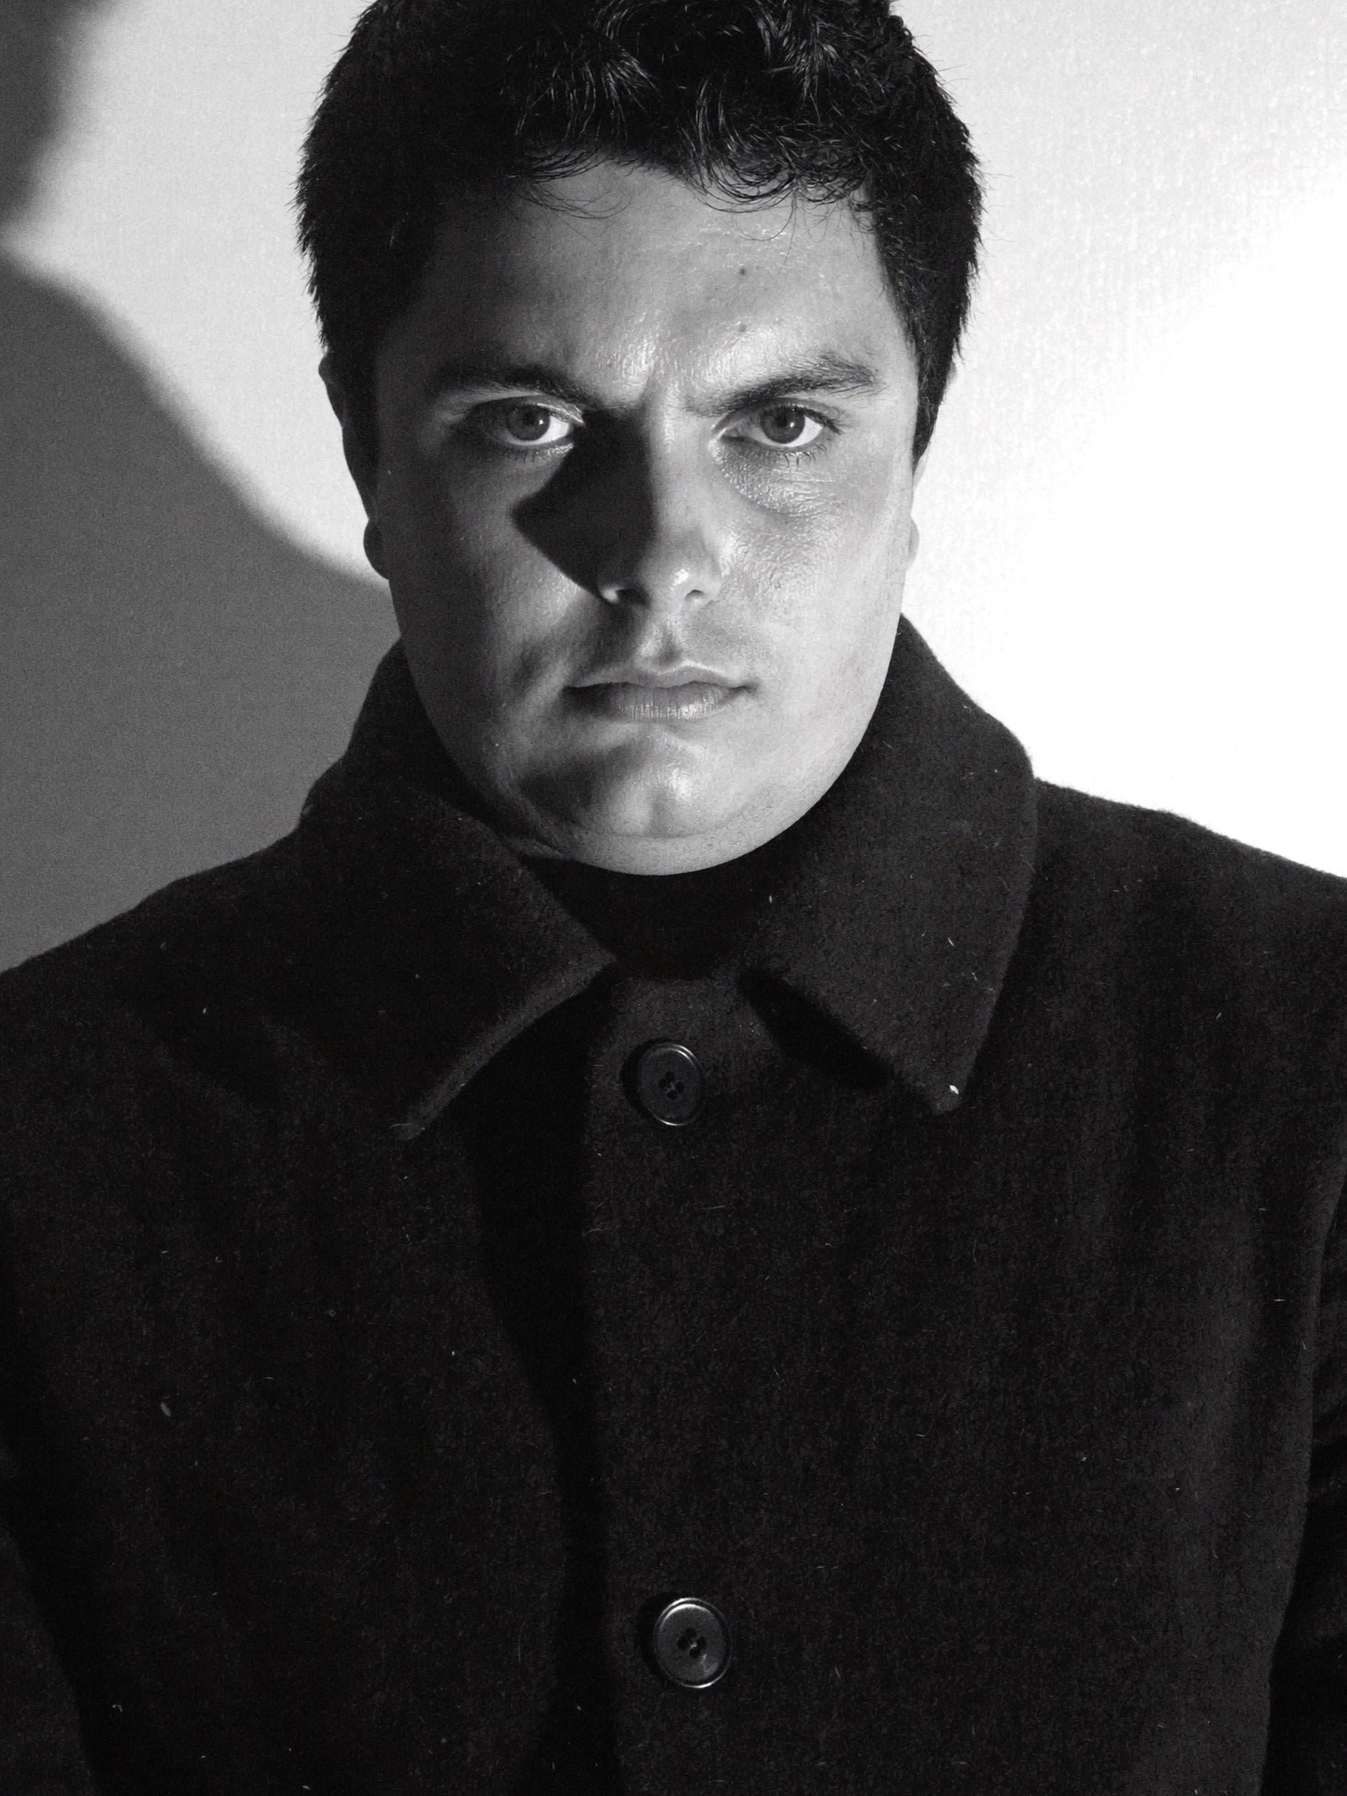
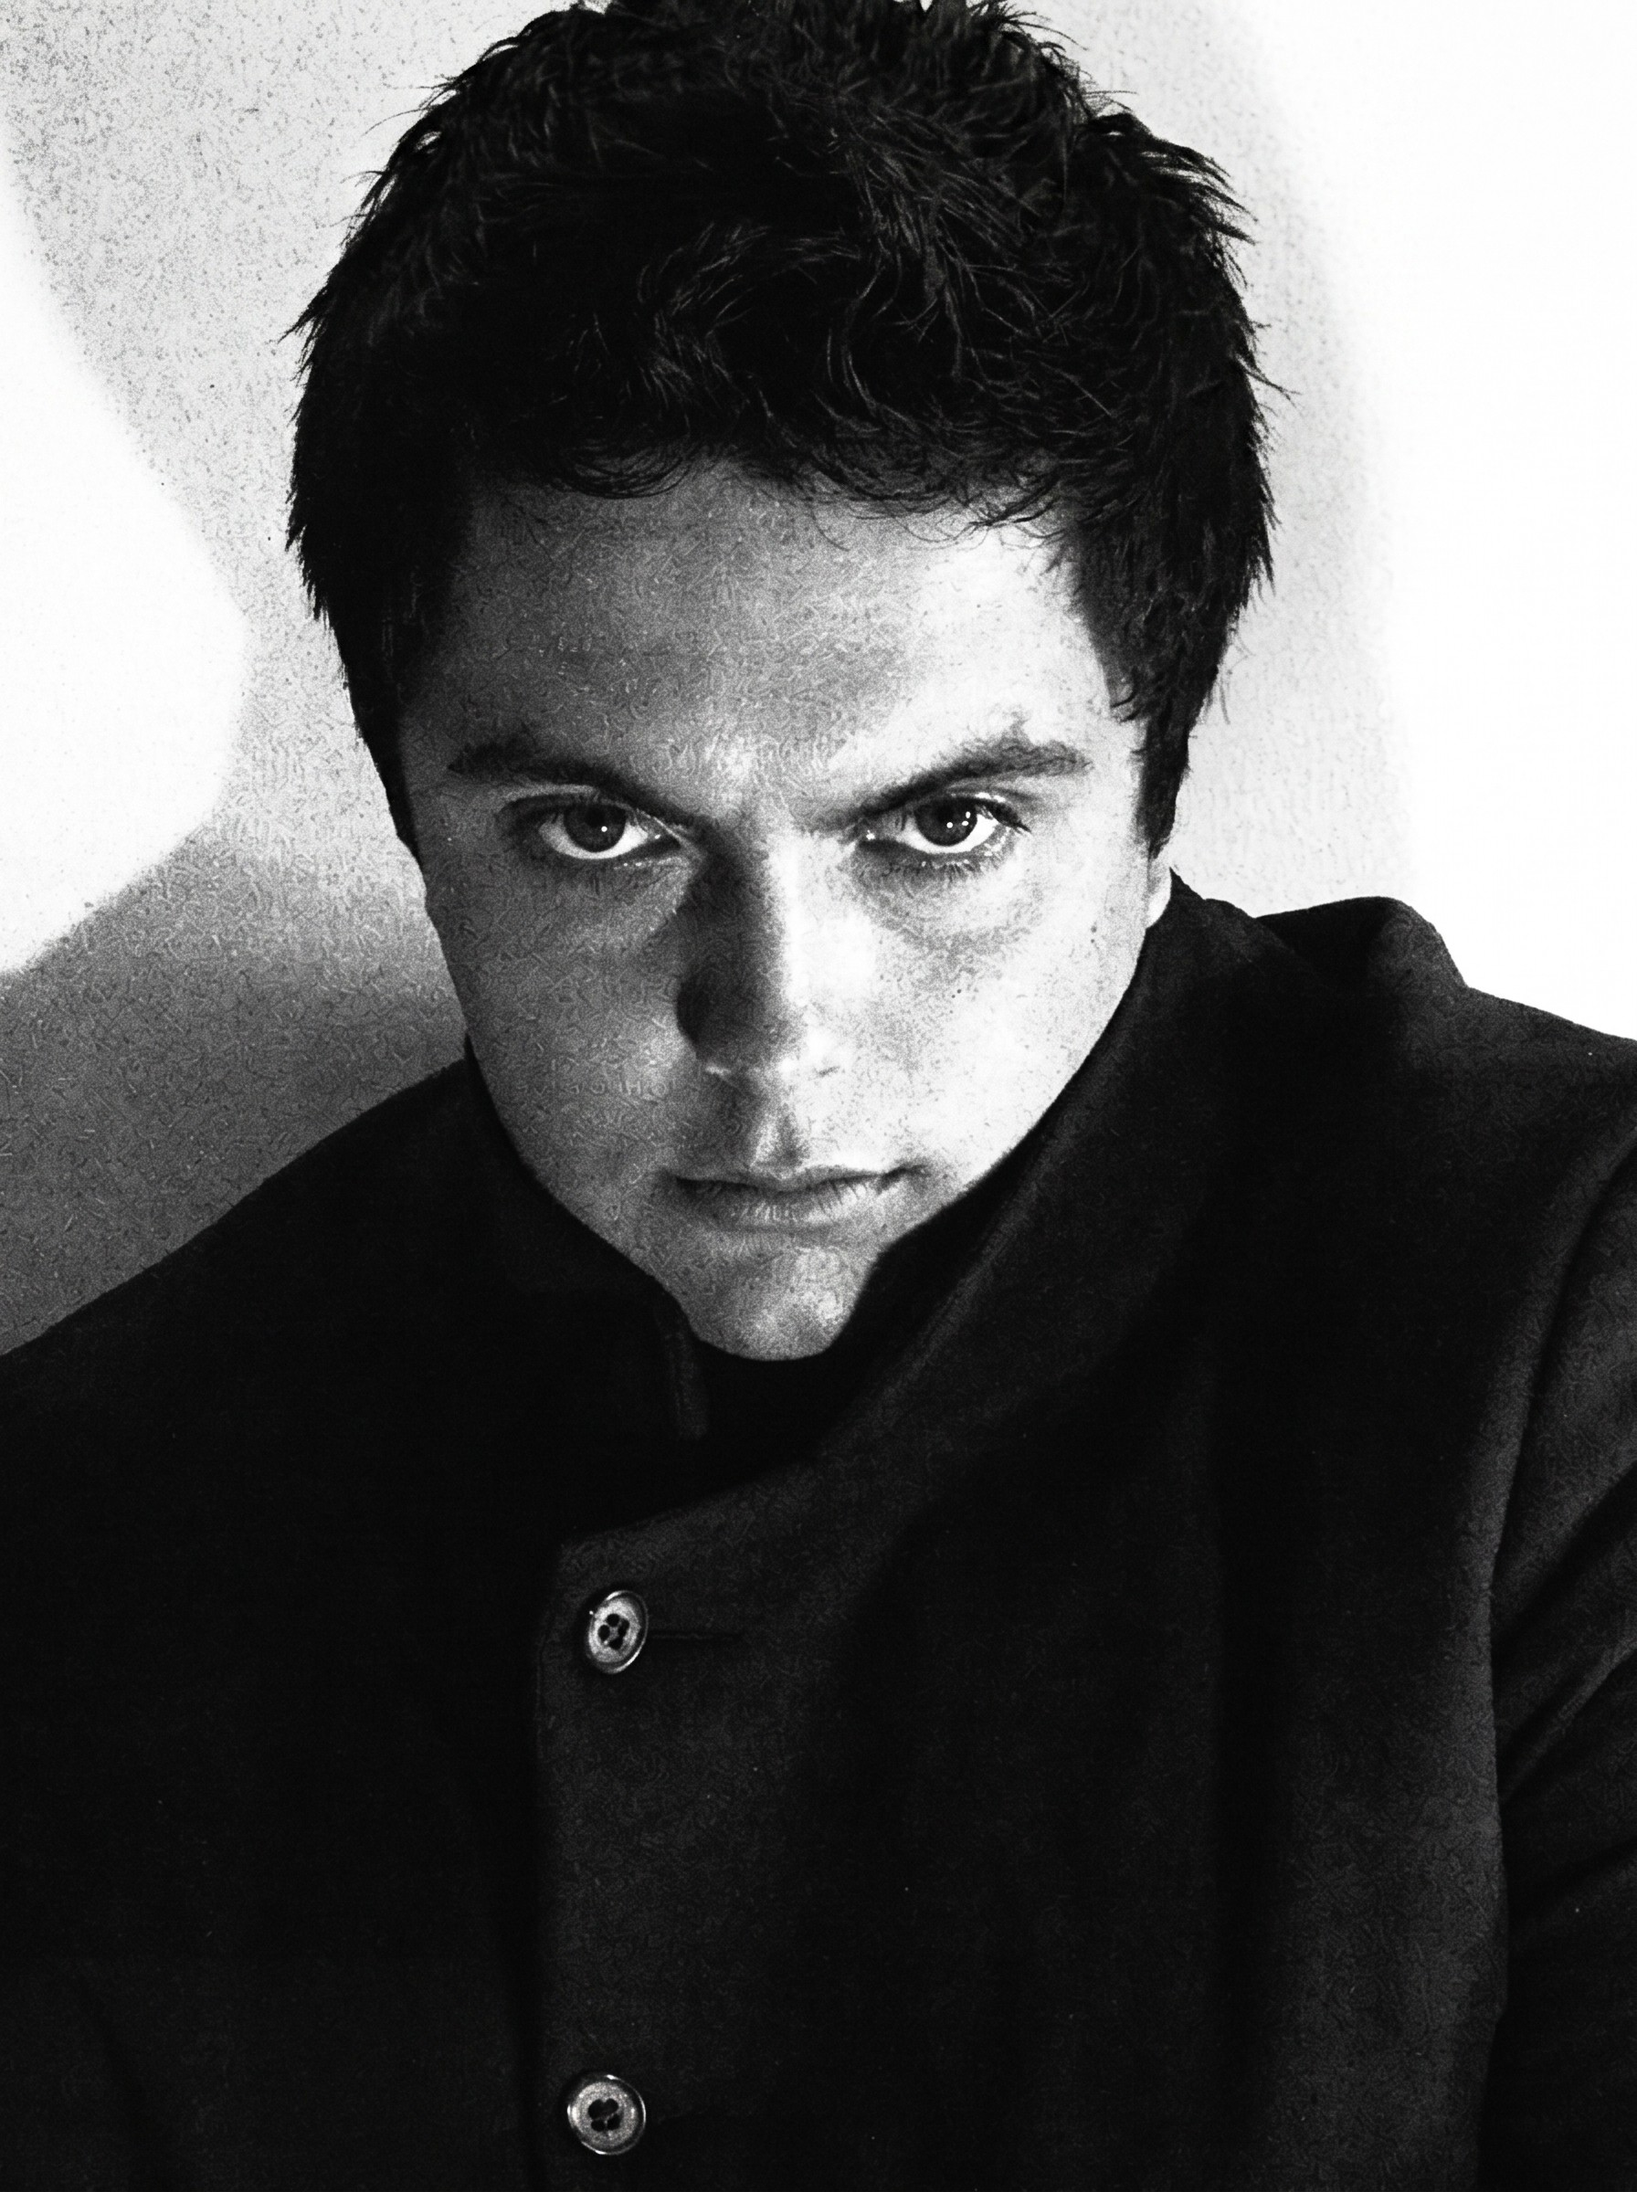
Regenerate KSM Soul gallery as 26yo man across ratios
Rebuild brand heroes and work archive with soul_2 (KSM soul_id),
keeping male subject consistency across 3:4, 1:1, 16:9, and 9:16.

diff --git a/data/gallery.ts b/data/gallery.ts
@@ -1,14 +1,16 @@
 /**
- * KSM Soul work gallery — generations from moodboard refs.
- * Browse at `/gallery`.
+ * KSM Soul work gallery — regenerated with soul_2 (KSM).
+ * Subject: 26-year-old man. Browse at `/gallery`.
  */
+
+export type GalleryAspect = "3/4" | "1/1" | "16/9" | "9/16";
 
 export type GalleryItem = {
   id: string;
   title: string;
   mood: string;
   src: string;
-  aspect: "3/4" | "1/1";
+  aspect: GalleryAspect;
   jobId: string;
 };
 
@@ -16,58 +18,42 @@ export const galleryItems: GalleryItem[] = [
   {
     id: "bw-profile",
     title: "B&W Cover Portrait",
-    mood: "High-contrast monochrome hero look — grain, collar, hard side light, no text",
+    mood: "High-contrast monochrome hero — grain, collar, hard side light, no text",
     src: "/images/gallery/bw-profile.jpg",
     aspect: "3/4",
-    jobId: "eced077d-099f-4566-abb8-9cb0cc710643",
+    jobId: "c70ec123-f000-460a-b421-2c2b7c772eb5",
   },
   {
-    id: "bw-hero-clean",
-    title: "B&W Studio Stare",
-    mood: "Same cover energy, cropped clean of masthead",
-    src: "/images/gallery/bw-hero-clean.jpg",
+    id: "bw-cover-cropped",
+    title: "B&W Cover Crop",
+    mood: "Same cover stare, masthead cropped out for clean brand use",
+    src: "/images/gallery/bw-cover-cropped.jpg",
     aspect: "3/4",
-    jobId: "30062074-880f-49cb-b4c3-4adfb30aa3e1",
+    jobId: "b76e02b0-869b-4ba1-aa91-5666745053ea",
   },
   {
     id: "bw-concrete",
-    title: "B&W Concrete Wall",
-    mood: "Editorial close-up against rough wall, chiaroscuro",
+    title: "B&W Concrete Low Angle",
+    mood: "Chin up against rough wall — chiaroscuro, film grain",
     src: "/images/gallery/bw-concrete.jpg",
     aspect: "3/4",
-    jobId: "43a840de-72ce-41c2-ad6e-61cddac8b098",
+    jobId: "cc6bb95c-c1c3-4a6d-9c2b-06f2bc0ed87e",
   },
   {
-    id: "bw-lowangle",
-    title: "B&W Low Angle",
-    mood: "Chin up, hard right light, film grain",
-    src: "/images/gallery/bw-lowangle.jpg",
+    id: "turtleneck-studio",
+    title: "Turtleneck Studio",
+    mood: "Soft window light + hard shadow, black turtleneck mid-shot",
+    src: "/images/gallery/turtleneck-studio.jpg",
     aspect: "3/4",
-    jobId: "9383801a-15ec-4e12-8f82-42db3a50779b",
+    jobId: "2369c5b8-3930-40d2-9d59-15b86c764eb7",
   },
   {
-    id: "bw-eyes",
-    title: "B&W Eyes Crop",
-    mood: "Tight face fill, underground zine stare",
-    src: "/images/gallery/bw-eyes.jpg",
-    aspect: "1/1",
-    jobId: "d4ba038d-c8d0-41bc-a7db-db1d27192ea7",
-  },
-  {
-    id: "bw-square",
-    title: "B&W Square Noir",
-    mood: "Square crop, soft edge falloff, sharp eyes",
-    src: "/images/gallery/bw-square.jpg",
-    aspect: "1/1",
-    jobId: "8a4834c5-8235-4b21-81f2-c40a871ec973",
-  },
-  {
-    id: "magazine-cyan-orange",
-    title: "Cyan / Orange Cover",
-    mood: "Cold cyan studio light, scarlet gloves, knife + orange — Dazed-cover energy",
-    src: "/images/gallery/magazine-cyan-orange.jpg",
+    id: "magazine-crimson",
+    title: "Crimson Scarf Editorial",
+    mood: "Black coat, crimson accent, high-contrast studio grade",
+    src: "/images/gallery/magazine-crimson.jpg",
     aspect: "3/4",
-    jobId: "d08bdee3-6922-4626-b96e-d3d36673cda6",
+    jobId: "1572ecb9-1827-46a2-a4e4-86c199835c10",
   },
   {
     id: "double-exposure-lilies",
@@ -75,54 +61,76 @@ export const galleryItems: GalleryItem[] = [
     mood: "Double-exposure face wash in blood red with cream trumpet lilies",
     src: "/images/gallery/double-exposure-lilies.jpg",
     aspect: "3/4",
-    jobId: "684cbacc-3b94-485e-b8a4-3c7bcb086fb6",
-  },
-  {
-    id: "eyes-through-florals",
-    title: "Eyes Through Florals",
-    mood: "Punk collage — eyes peering through black botanical silhouette",
-    src: "/images/gallery/eyes-through-florals.jpg",
-    aspect: "1/1",
-    jobId: "2bdc4c4f-e0dd-46d3-b8d9-e3ae0e6fca4b",
-  },
-  {
-    id: "ophelia-roses",
-    title: "Ophelia Roses",
-    mood: "Floating in dark water with crimson roses, soft spotlight",
-    src: "/images/gallery/ophelia-roses.jpg",
-    aspect: "3/4",
-    jobId: "d624a034-4d76-4499-bede-d57c6342a7a8",
-  },
-  {
-    id: "blue-etching-eye-card",
-    title: "Blue Etching / Eye Card",
-    mood: "Duotone navy stipple portrait holding an orange card with a blue eye",
-    src: "/images/gallery/blue-etching-eye-card.jpg",
-    aspect: "3/4",
-    jobId: "6828db56-f115-4828-8716-4097cf86fe52",
-  },
-  {
-    id: "red-sun-city",
-    title: "Red Sun City",
-    mood: "Blue night street canyon under a saturated red sun",
-    src: "/images/gallery/red-sun-city.jpg",
-    aspect: "3/4",
-    jobId: "7c635bb3-9f94-45eb-b7d5-ddc5ae7a2161",
+    jobId: "f12ed7f3-be97-413d-bb8e-f6aca92a9866",
   },
   {
     id: "glitch-attention",
     title: "Glitch Attention",
-    mood: "Motion-blurred crimson typography smear over black, face emerging",
+    mood: "Motion-blurred crimson smear — face emerging from black",
     src: "/images/gallery/glitch-attention.jpg",
     aspect: "3/4",
-    jobId: "863002dc-c1db-4a40-a1c4-b1756803df63",
+    jobId: "c8503be4-258b-4fb3-9c59-6fedd729ecba",
+  },
+  {
+    id: "bw-square",
+    title: "B&W Square Noir",
+    mood: "Tight square face fill — soft falloff, sharp eyes",
+    src: "/images/gallery/bw-square.jpg",
+    aspect: "1/1",
+    jobId: "7d20a7e5-e03b-4ec3-b3c3-80f5987d47ce",
+  },
+  {
+    id: "bw-eyes",
+    title: "B&W Eyes Crop",
+    mood: "Extreme eye close-up — underground zine stare",
+    src: "/images/gallery/bw-eyes.jpg",
+    aspect: "1/1",
+    jobId: "d6306ea6-c144-4db4-ba77-ee772fd09c4e",
   },
   {
     id: "foliage-crimson",
     title: "Foliage Crimson",
-    mood: "Eyes through mossy green branches on flat crimson field",
+    mood: "Eyes through mossy branches on a flat crimson field",
     src: "/images/gallery/foliage-crimson.jpg",
     aspect: "1/1",
-    jobId: "30b7cba8-86cf-4d45-801b-8f2a99b7203e",
+    jobId: "6bf473ba-247d-4c87-a24e-63b7598777e5",
+  },
+  {
+    id: "eyes-strip-wide",
+    title: "Eyes Strip Wide",
+    mood: "16:9 cinematic eye band for signal strips and banners",
+    src: "/images/gallery/eyes-strip-wide.jpg",
+    aspect: "16/9",
+    jobId: "dde9cf1d-759e-43ea-b801-ff50bf323190",
+  },
+  {
+    id: "red-sun-city",
+    title: "Red Sun City",
+    mood: "Blue night street under a saturated red sun — environmental",
+    src: "/images/gallery/red-sun-city.jpg",
+    aspect: "16/9",
+    jobId: "78c22fa4-3bd8-4694-8432-ba76b9168fd8",
+  },
+  {
+    id: "story-vertical",
+    title: "Story Vertical",
+    mood: "9:16 vertical contact / story frame — dark coat, rim light",
+    src: "/images/gallery/story-vertical.jpg",
+    aspect: "9/16",
+    jobId: "1885203e-31be-4658-a848-12385f2cc273",
   },
 ];
+
+export function aspectRatioValue(aspect: GalleryAspect): number {
+  switch (aspect) {
+    case "1/1":
+      return 1;
+    case "16/9":
+      return 16 / 9;
+    case "9/16":
+      return 9 / 16;
+    case "3/4":
+    default:
+      return 3 / 4;
+  }
+}

diff --git a/data/work.ts b/data/work.ts
@@ -52,20 +52,20 @@ export const gridWork: WorkItem[] = [
     year: "2026",
   },
   {
-    id: "magazine-cyan-orange",
-    title: "Cyan / orange cover",
+    id: "magazine-crimson",
+    title: "Crimson scarf editorial",
     category: "Campaign",
-    summary: "Cold light, scarlet gloves, fruit-as-threat editorial.",
-    image: "/images/gallery/magazine-cyan-orange.jpg",
+    summary: "Black coat, crimson accent — high-contrast studio grade.",
+    image: "/images/gallery/magazine-crimson.jpg",
     href: "/gallery",
     year: "2026",
   },
   {
-    id: "eyes-through-florals",
-    title: "Eyes through florals",
+    id: "foliage-crimson",
+    title: "Foliage crimson",
     category: "Identity",
-    summary: "Punk collage mark — eyes peering through black botanicals.",
-    image: "/images/gallery/eyes-through-florals.jpg",
+    summary: "Eyes through mossy branches on a flat crimson field.",
+    image: "/images/gallery/foliage-crimson.jpg",
     href: "/gallery",
     year: "2026",
   },
@@ -96,21 +96,21 @@ export const listWork: WorkItem[] = [
     id: "glitch-attention",
     title: "Glitch attention",
     category: "Campaign",
-    summary: "Motion-blurred crimson typography smear — face emerging.",
+    summary: "Motion-blurred crimson smear — face emerging.",
     image: "/images/gallery/glitch-attention.jpg",
     href: "/gallery",
     year: "2026",
     meta: "Motion still",
   },
   {
-    id: "foliage-crimson",
-    title: "Foliage crimson",
+    id: "story-vertical",
+    title: "Story vertical",
     category: "Brand",
-    summary: "Eyes through mossy branches on a flat crimson field.",
-    image: "/images/gallery/foliage-crimson.jpg",
+    summary: "9:16 vertical contact frame — dark coat, rim light.",
+    image: "/images/gallery/story-vertical.jpg",
     href: "/gallery",
     year: "2026",
-    meta: "Mark study",
+    meta: "Story frame",
   },
 ];
 

diff --git a/app/(site)/gallery.tsx b/app/(site)/gallery.tsx
@@ -2,7 +2,7 @@ import { Text, View } from "react-native";
 import { Image } from "expo-image";
 import { Wrapper } from "@/components/Wrapper";
 import { PageSeo } from "@/components/PageSeo";
-import { galleryItems } from "@/data/gallery";
+import { aspectRatioValue, galleryItems } from "@/data/gallery";
 
 export default function GalleryScreen() {
   return (
@@ -42,7 +42,7 @@ export default function GalleryScreen() {
                 source={{ uri: item.src }}
                 className="w-full border-2 border-border"
                 style={{
-                  aspectRatio: item.aspect === "1/1" ? 1 : 3 / 4,
+                  aspectRatio: aspectRatioValue(item.aspect),
                   width: "100%",
                 }}
                 contentFit="cover"

diff --git a/app/(site)/index.tsx b/app/(site)/index.tsx
@@ -8,7 +8,7 @@ import { SunCrossMark } from "@/components/SunCrossMark";
 import { getHomeWork } from "@/data/work";
 
 const HERO = "/images/brand/hero-cover.jpg";
-const STRIP = "/images/brand/eyes-strip.png";
+const STRIP = "/images/brand/eyes-strip.jpg";
 
 export default function HomeScreen() {
   const { featured, grid, list } = getHomeWork();
